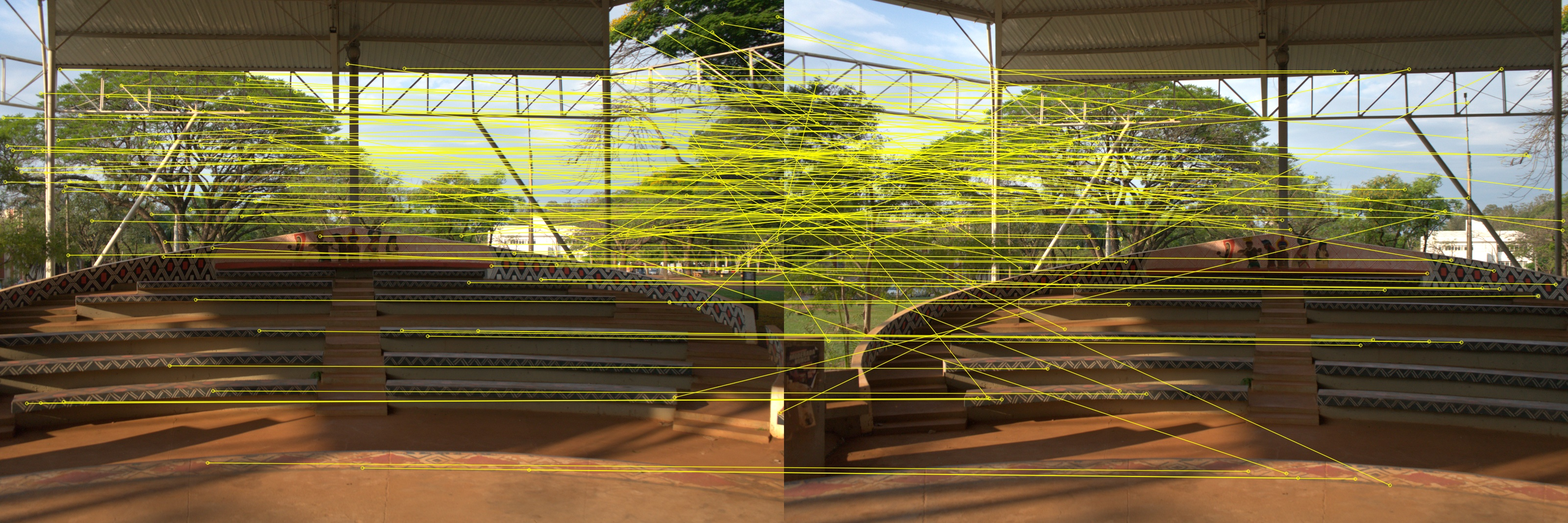
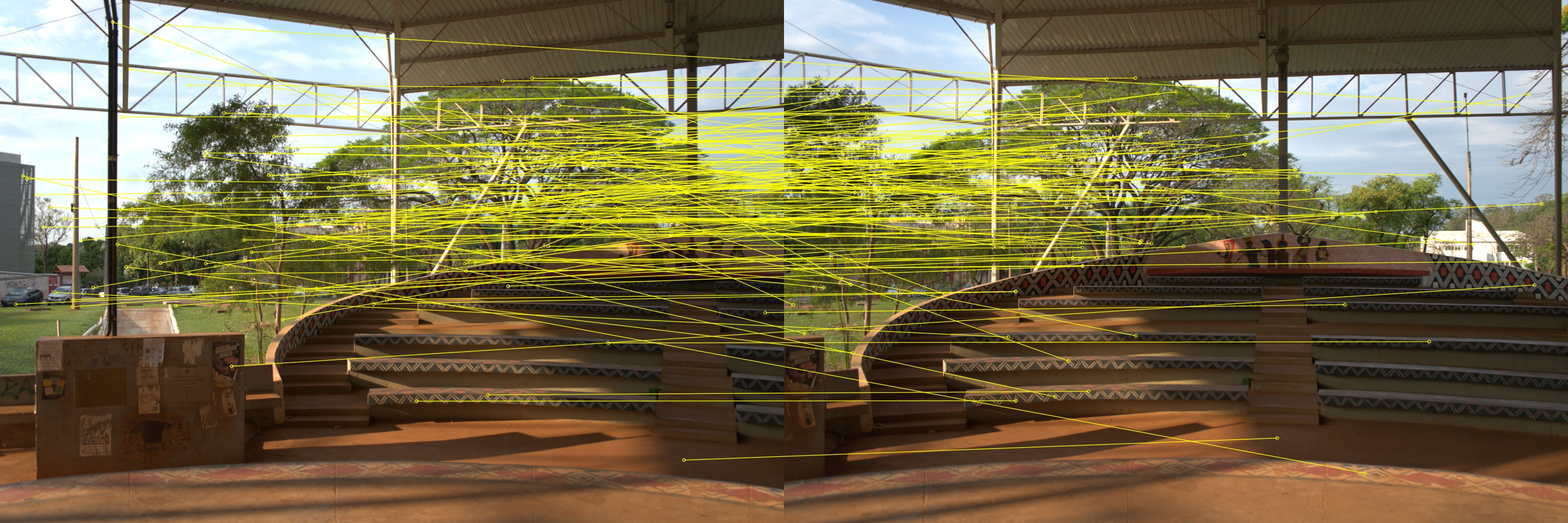
Refactor e extras 2

diff --git a/src/passo1_raw_convert.py b/src/passo1_raw_convert.py
@@ -4,10 +4,14 @@ de panoramas (as demais etapas trabalham com PNG/JPG via OpenCV).
 
 Todas as fotos de um conjunto sao reveladas com o mesmo balanco de branco
 (mediana do "as shot"; com AWB cada foto vem com um diferente) e o mesmo
-brilho, para nao criar degraus de cor e exposicao entre vizinhas.
+brilho, para nao criar degraus de cor e exposicao entre vizinhas. Com `anonymize`,
+as fotos recebem nomes aleatorios (Etapa 4.1), e os originais ficam em NAMES_FILE,
+usado so para rotular as saidas.
 """
+import csv
 import multiprocessing as mp
 import os
+import random
 from concurrent.futures import ProcessPoolExecutor
 
 import numpy as np
@@ -15,6 +19,7 @@ import rawpy
 import cv2
 
 SRGB_GAMMA = (2.4, 12.92)
+NAMES_FILE = "nomes_originais.csv"
 
 
 def common_white_balance(paths):
@@ -59,18 +64,24 @@ def _develop_one(path, out_path, user_wb, bright, max_dim, bits):
     return rgb.shape[1], rgb.shape[0]
 
 
-def convert_arw_to_png(input_dir, output_dir, max_dim=1600, bits=8, workers=None):
+def convert_arw_to_png(input_dir, output_dir, max_dim=1600, bits=8, anonymize=False, workers=None):
     arw_files = sorted(f for f in os.listdir(input_dir) if f.lower().endswith(".arw"))
     if not arw_files:
         print(f"Nenhum arquivo .ARW encontrado em {input_dir}")
         return []
     os.makedirs(output_dir, exist_ok=True)
     for old in os.listdir(output_dir):
-        if old.lower().endswith(".png"):
+        if old.lower().endswith(".png") or old == NAMES_FILE:
             os.remove(os.path.join(output_dir, old))
 
     paths = [os.path.join(input_dir, f) for f in arw_files]
-    out_paths = [os.path.join(output_dir, os.path.splitext(f)[0] + ".png") for f in arw_files]
+    stems = [os.path.splitext(f)[0] for f in arw_files]
+    if anonymize:
+        rng = random.Random(0)
+        stems = [f"{rng.getrandbits(32):08x}" for _ in arw_files]
+        with open(os.path.join(output_dir, NAMES_FILE), "w", newline="") as f:
+            csv.writer(f).writerows([("arquivo", "original")] + [(s + ".png", a) for s, a in zip(stems, arw_files)])
+    out_paths = [os.path.join(output_dir, s + ".png") for s in stems]
 
     user_wb = common_white_balance(paths)
     print(f"Balanco de branco comum (R, G, B, G2): {[round(v, 1) for v in user_wb]}")
@@ -83,3 +94,12 @@ def convert_arw_to_png(input_dir, output_dir, max_dim=1600, bits=8, workers=None
         for filename, out_path, (w, h) in zip(arw_files, out_paths, sizes):
             print(f"Convertido: {filename} -> {os.path.basename(out_path)}  ({w}x{h}, {bits} bits)")
     return out_paths
+
+
+def original_names(png_dir):
+    """{arquivo: nome original sem extensao} das fotos com nomes aleatorios; vazio se nao houver."""
+    path = os.path.join(png_dir, NAMES_FILE)
+    if not os.path.exists(path):
+        return {}
+    with open(path) as f:
+        return {row["arquivo"]: os.path.splitext(row["original"])[0] for row in csv.DictReader(f)}

diff --git a/src/passo2_pipeline.py b/src/passo2_pipeline.py
@@ -22,12 +22,13 @@ import cv2
 import numpy as np
 
 from . import config
-from .etapa2_features import detect_features_all, compare_detectors
+from .etapa2_features import detect_features_all, compare_detectors, draw_keypoints
 from .etapa3_matching import knn_match, match_features, draw_matches_before_after
 from .etapa4_ordering import (build_connectivity_matrix, build_neighbor_graph, detect_intruders, infer_order,
                        draw_neighbor_graph)
 from .etapa5_homography import estimate_homography, compose_pairwise_homographies
 from .etapa6_blending import compose_panorama, ghost_comparison, overlap_metrics
+from .passo1_raw_convert import original_names
 
 
 def load_images(input_dir, shuffle=True, seed=0):
@@ -72,14 +73,16 @@ def run_pipeline(input_dir, output_dir):
 
     # ---- Etapa 1: carregamento ----
     images, filenames = load_images(input_dir, seed=config.SEED)
-    names = [os.path.splitext(f)[0] for f in filenames]
+    labels = original_names(input_dir)  # so para rotular as saidas; a ordenacao usa apenas os indices
+    names = [labels.get(f, os.path.splitext(f)[0]) for f in filenames]
     if len(images) < 6:
         print(f"Aviso: o enunciado pede no minimo 6 imagens; foram carregadas {len(images)}.")
 
     # ---- Etapa 2: deteccao de caracteristicas ----
     print("\n[Etapa 2] Detectando caracteristicas...")
     all_kps, all_descs = detect_features_all(images, method=detector)
-    for name, kps in zip(names, all_kps):
+    for name, img, kps in zip(names, images, all_kps):
+        draw_keypoints(img, kps, out("2_deteccao", f"{name}_{detector}.jpg"))
         print(f"  {name}: {len(kps)} keypoints")
 
     # ---- Etapa 4 (usa Etapa 3 internamente): matriz de conectividade + ordenacao ----
@@ -110,7 +113,7 @@ def run_pipeline(input_dir, output_dir):
     a, b = order[len(order) // 2 - 1], order[len(order) // 2]
     print(f"\n[Etapa 2.3] Comparando detectores no par ({names[a]}, {names[b]})...")
     rows = compare_detectors(images[a], images[b], config.DETECTORS_COMPARED, os.path.join(output_dir, "2_deteccao"),
-                             ransac_thresh=ransac_thresh)
+                             ransac_thresh=ransac_thresh, name=names[a])
     write_csv(out("2_deteccao", "comparacao_detectores.csv"), rows)
     for row in rows:
         print(f"  {row}")

diff --git a/src/etapa2_features.py b/src/etapa2_features.py
@@ -64,10 +64,10 @@ def draw_keypoints(image, keypoints, out_path=None):
     return vis
 
 
-def compare_detectors(img_a, img_b, methods=("SIFT", "ORB"), out_dir=None, ransac_thresh=4.0):
+def compare_detectors(img_a, img_b, methods=("SIFT", "ORB"), out_dir=None, ransac_thresh=4.0, name="keypoints"):
     """Etapa 2.3 - roda cada detector num par de imagens vizinhas e mede keypoints,
     matches apos o ratio test, inliers do RANSAC e erro de reprojecao. Salva os
-    keypoints de cada detector sobre img_a. Retorna uma linha por detector."""
+    keypoints de cada detector sobre img_a, em <name>_<detector>.jpg. Retorna uma linha por detector."""
     from .etapa3_matching import knn_match, match_features
     from .etapa5_homography import estimate_homography
 
@@ -83,5 +83,5 @@ def compare_detectors(img_a, img_b, methods=("SIFT", "ORB"), out_dir=None, ransa
                      "erro_reproj_px": round(metrics["mean_reproj_error"] or float("nan"), 3)})
         if out_dir:
             os.makedirs(out_dir, exist_ok=True)
-            draw_keypoints(img_a, kps_a, os.path.join(out_dir, f"keypoints_{m}.jpg"))
+            draw_keypoints(img_a, kps_a, os.path.join(out_dir, f"{name}_{m}.jpg"))
     return rows

diff --git a/src/config.py b/src/config.py
@@ -3,12 +3,13 @@ from pathlib import Path
 ROOT = Path(__file__).resolve().parent.parent
 SEED = 0  # semente do embaralhamento da leitura (Etapa 4.1)
 
-# Passo 1: revelacao do RAW. (pasta com os .ARW, pasta de saida, lado maior em px (0 = total), bits)
+# Passo 1: revelacao do RAW. (pasta com os .ARW, pasta de saida, lado maior em px (0 = total), bits,
+# nomes aleatorios (Etapa 4.1, so no conjunto do pipeline principal))
 RAW_SETS = [
-    (ROOT / "D1", ROOT / "D1_png", 1600, 8),
-    (ROOT / "A1", ROOT / "A1_png", 0, 16),
-    (ROOT / "B1", ROOT / "B1_png", 0, 16),
-    (ROOT / "C1", ROOT / "C1_png", 0, 16),
+    (ROOT / "D1", ROOT / "D1_png", 1600, 8, True),
+    (ROOT / "A1", ROOT / "A1_png", 0, 16, False),
+    (ROOT / "B1", ROOT / "B1_png", 0, 16, False),
+    (ROOT / "C1", ROOT / "C1_png", 0, 16, False),
 ]
 
 DETECTOR = "SIFT"

diff --git a/1_revelar_raw.py b/1_revelar_raw.py
@@ -4,9 +4,9 @@ from src import config
 from src.passo1_raw_convert import convert_arw_to_png
 
 if __name__ == "__main__":
-    for raw_dir, png_dir, max_dim, bits in config.RAW_SETS:
+    for raw_dir, png_dir, max_dim, bits, anonymize in config.RAW_SETS:
         if not raw_dir.is_dir():
             print(f"Pasta {raw_dir.name}/ nao encontrada, pulando.")
             continue
         print(f"\n========== {raw_dir.name} ==========")
-        convert_arw_to_png(raw_dir, png_dir, max_dim, bits)
+        convert_arw_to_png(raw_dir, png_dir, max_dim, bits, anonymize)
